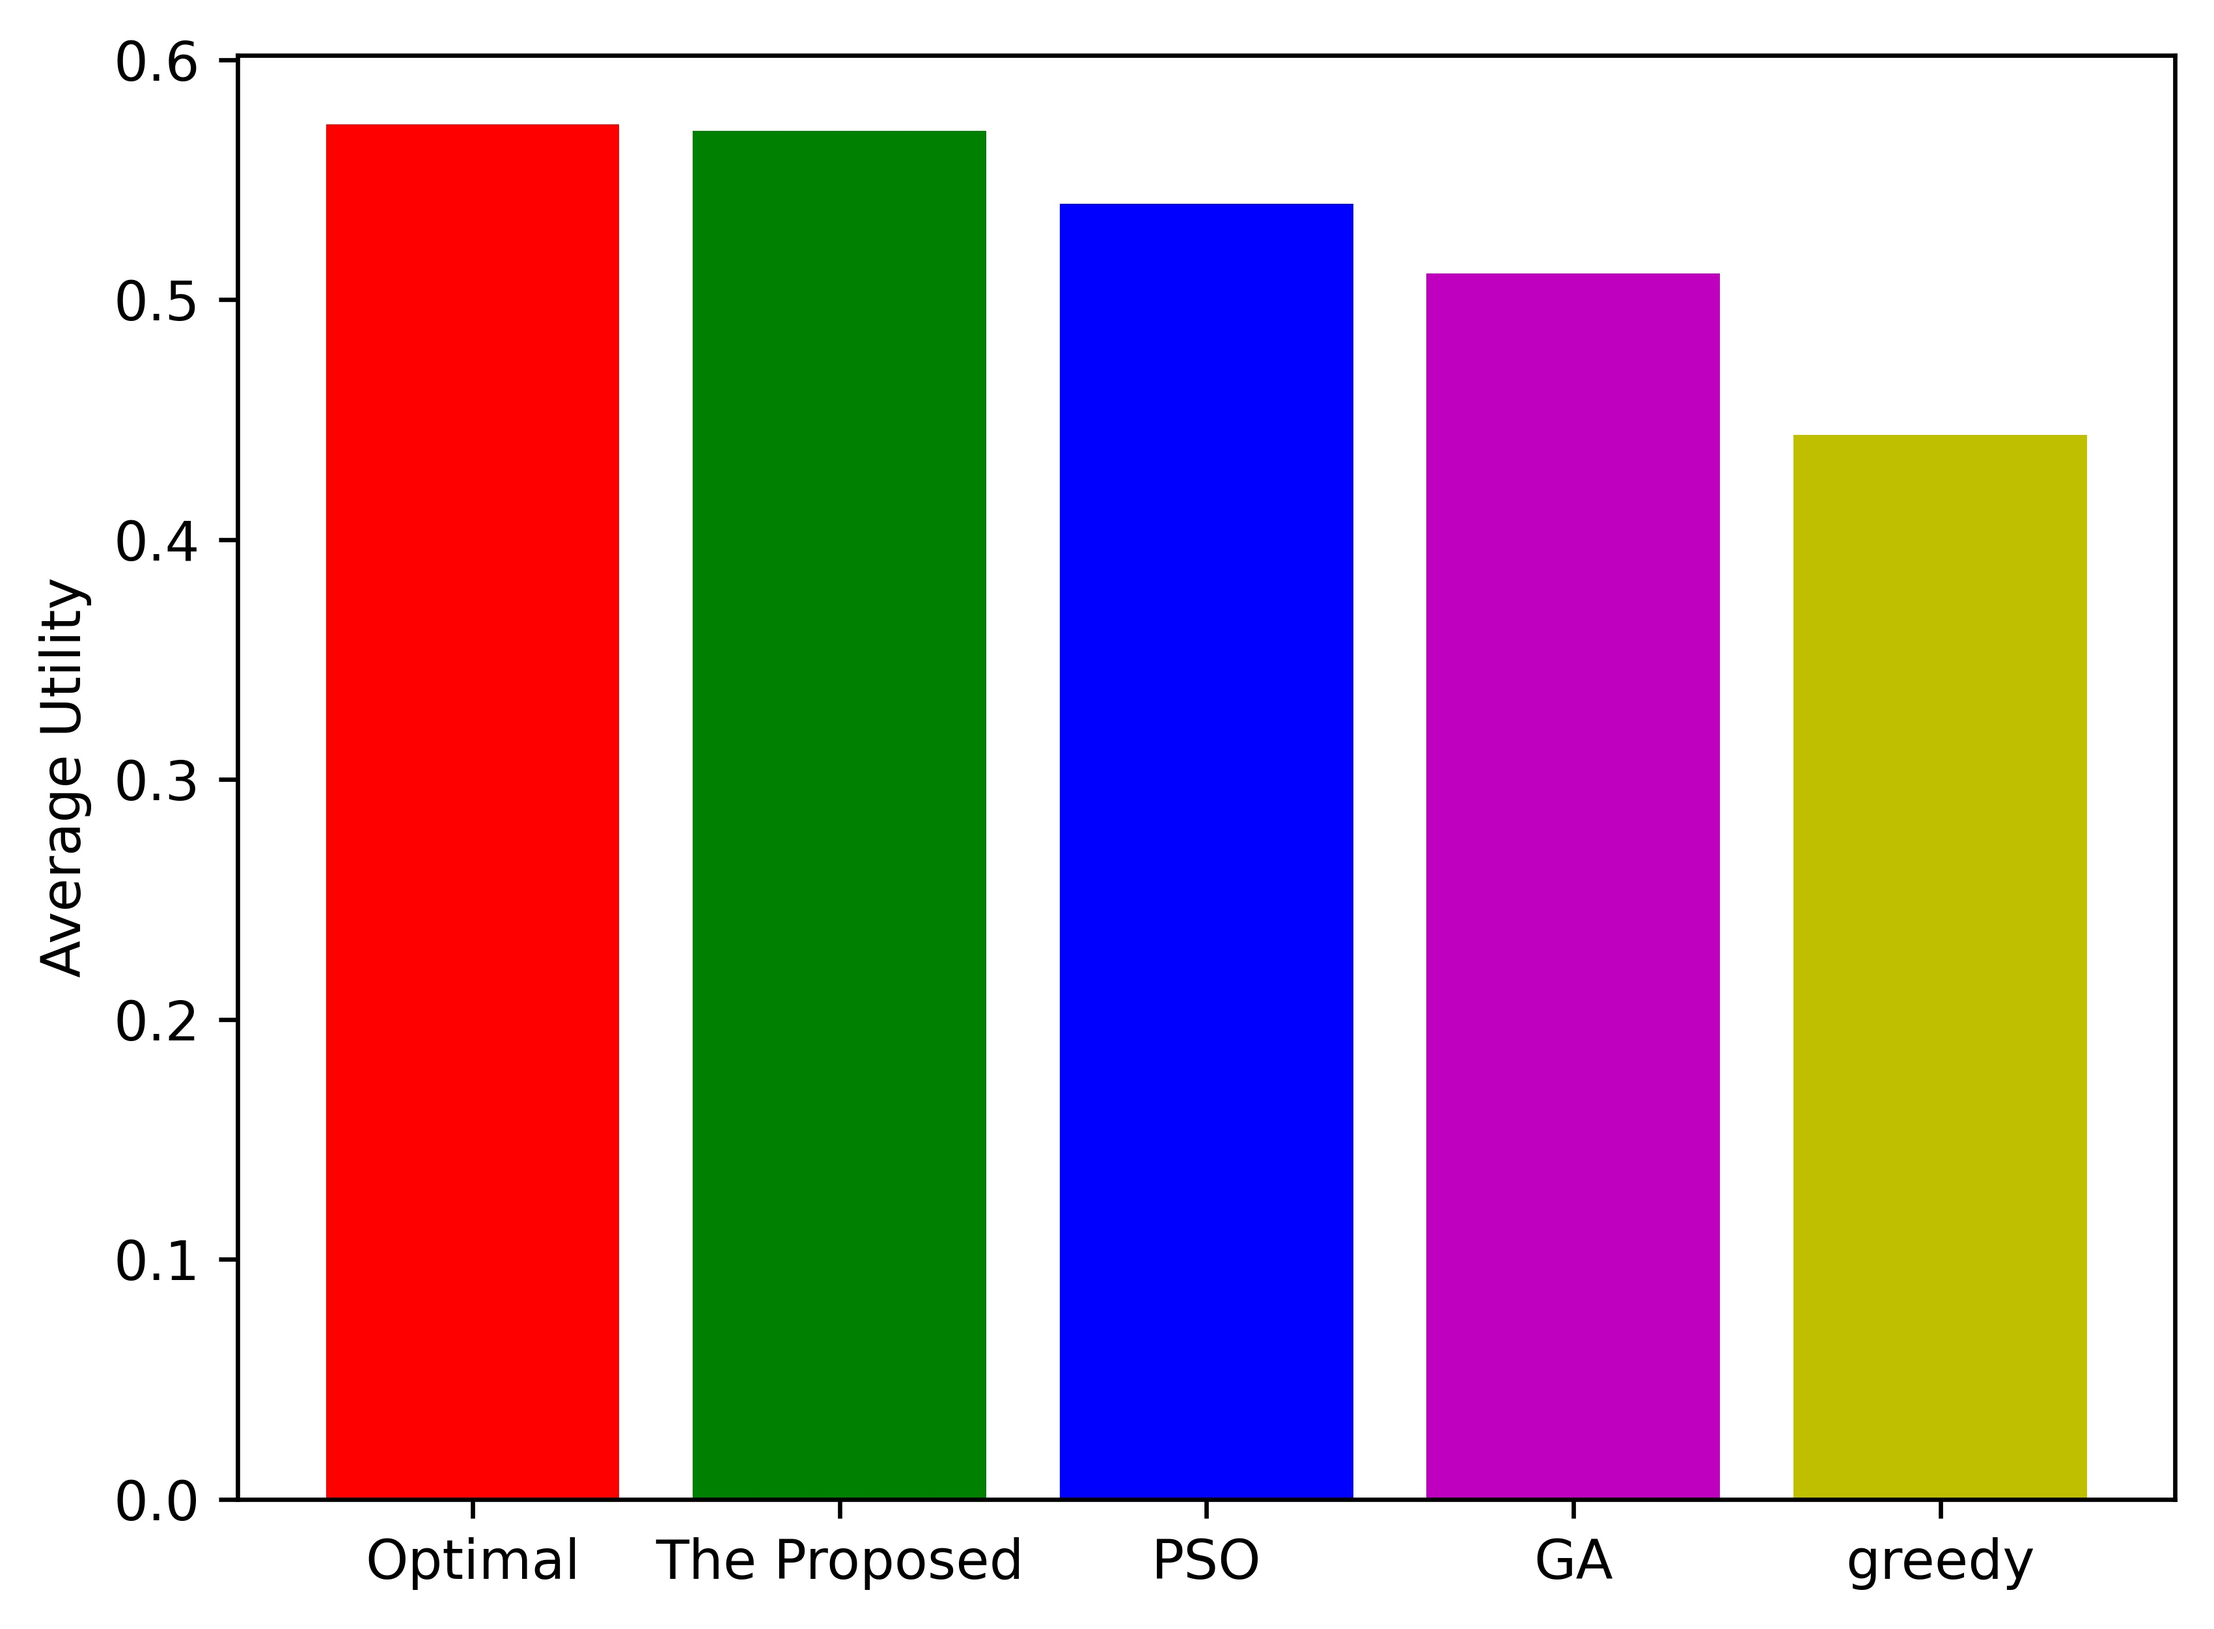
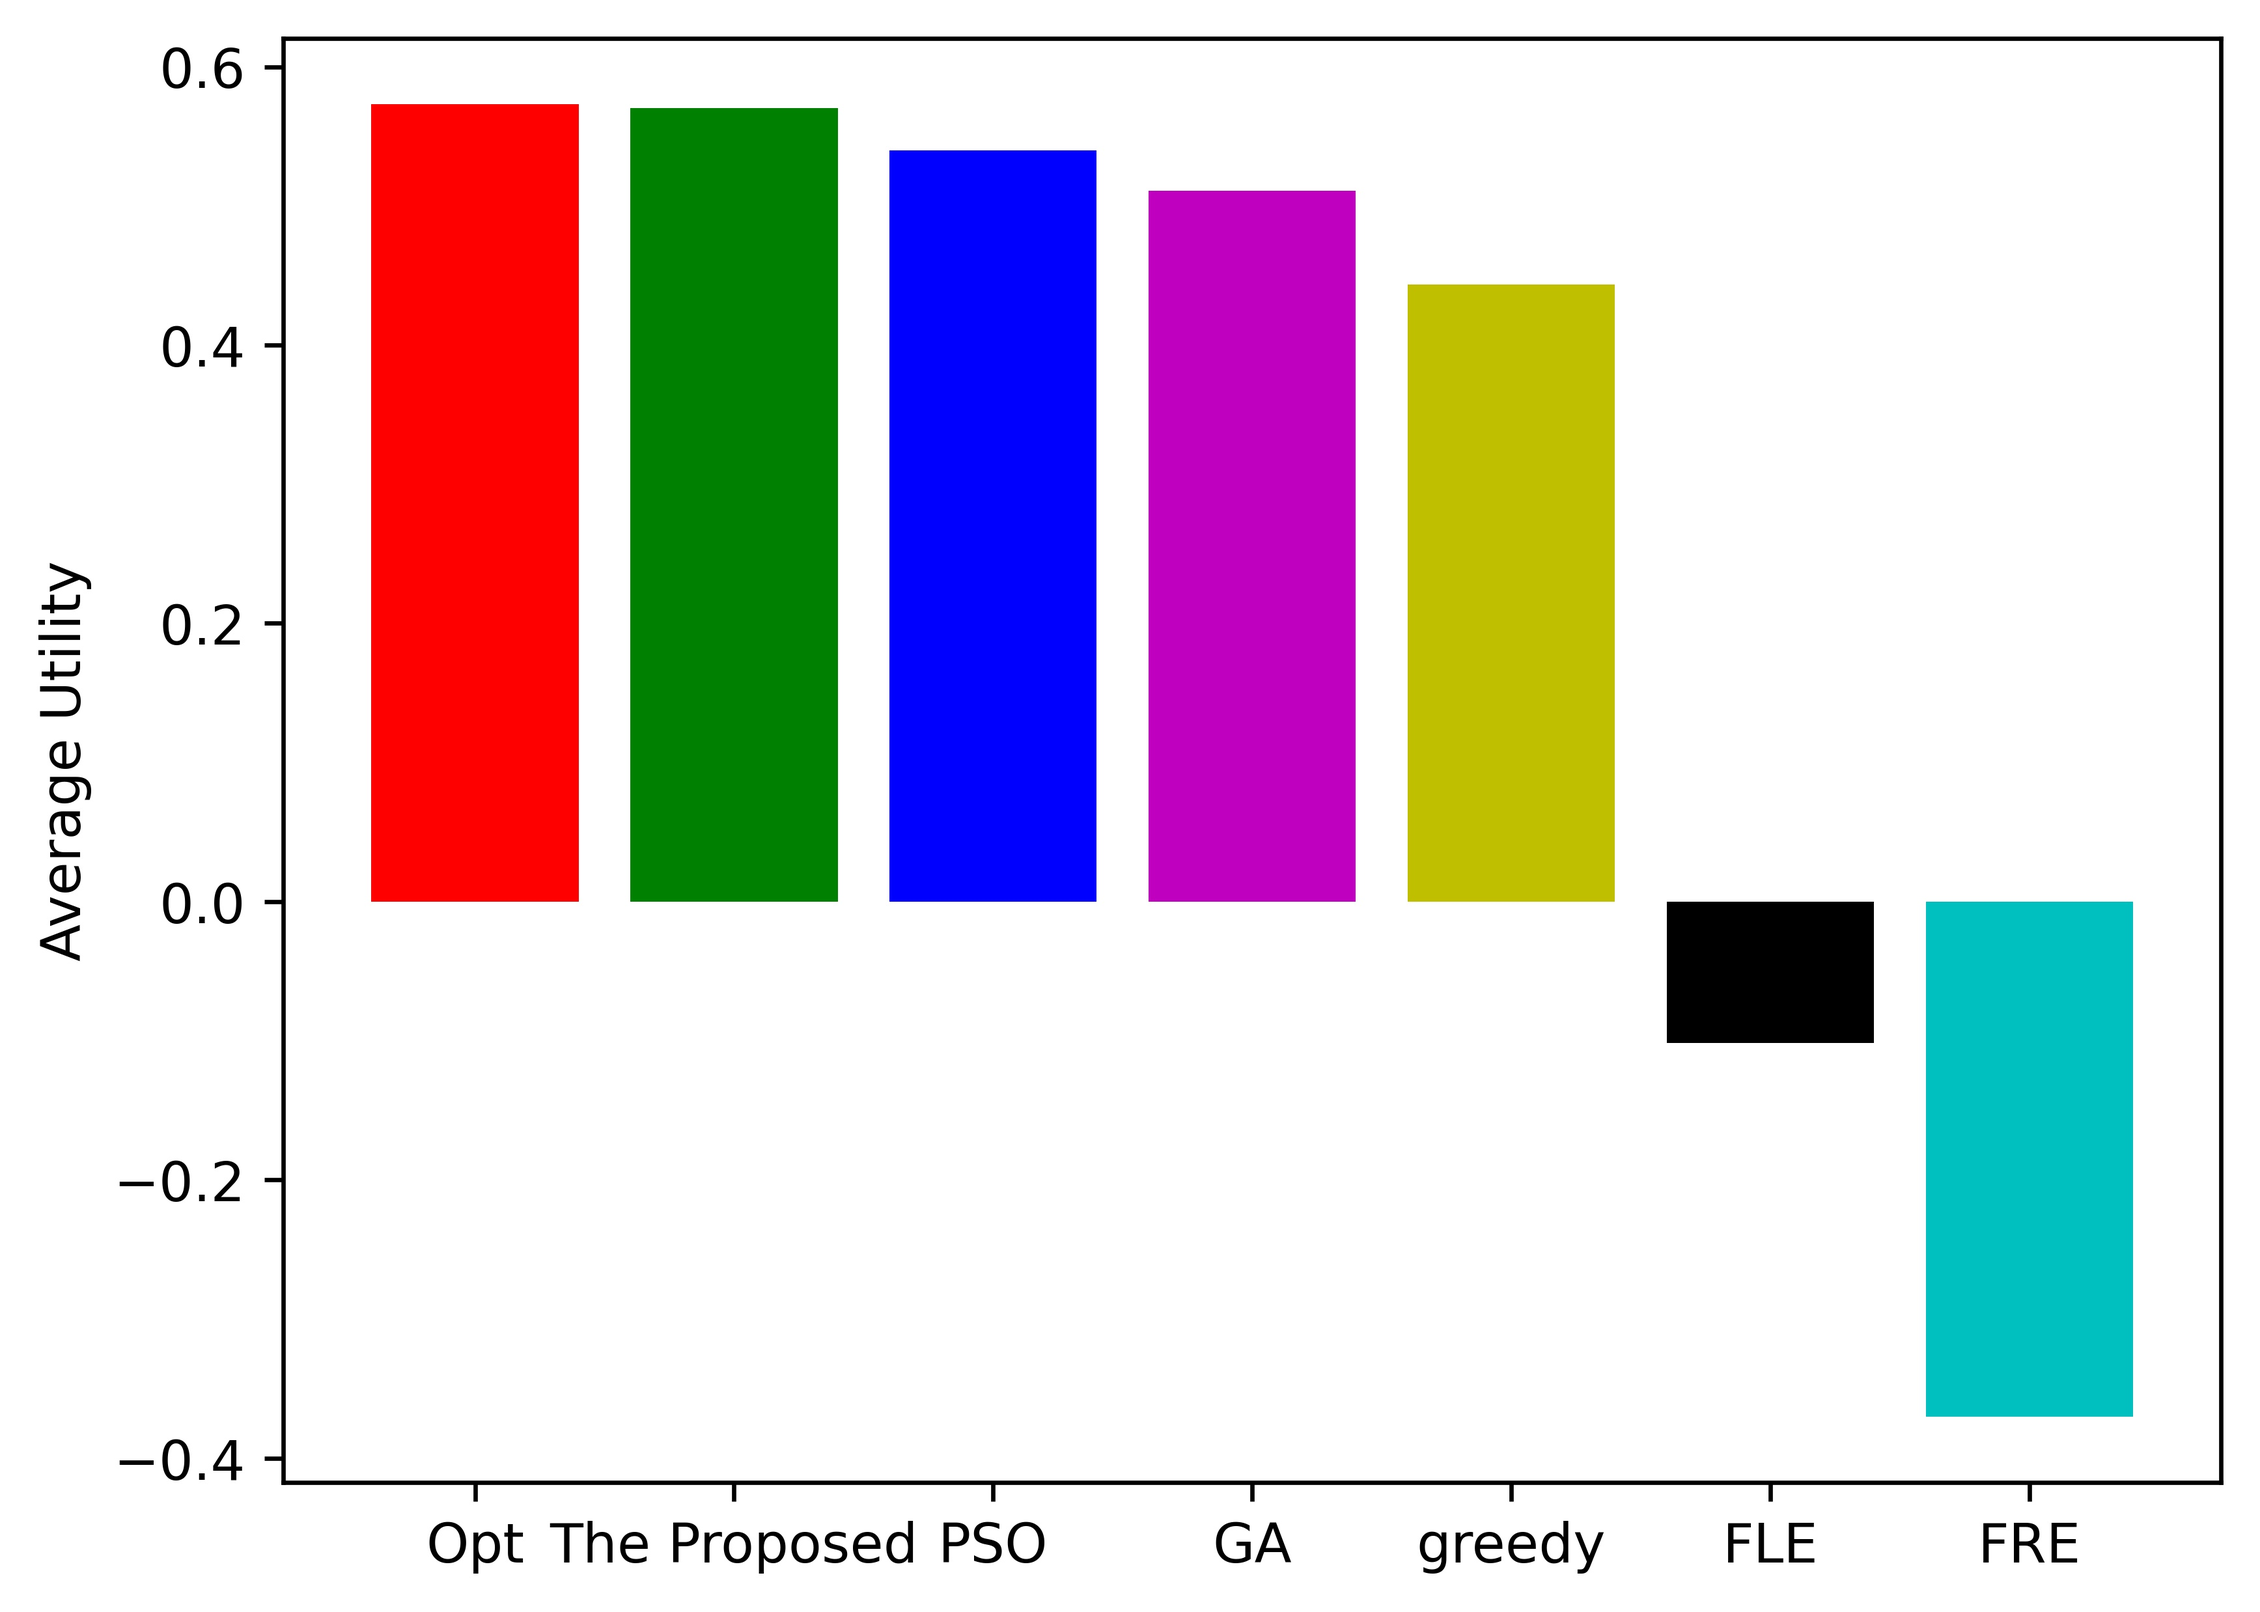
123456

diff --git a/UCD.py b/UCD.py
@@ -642,10 +642,17 @@ def draw_optimal():
 	print(rPSO, PSO, 'PSO')
 	xi=greedy(tasks)
 	RAN=random(tasks,xi)
-	print(RAN, (rOPT-RAN)/rOPT)'''
-	x=['Optimal', 'The Proposed', 'PSO', 'GA', 'greedy']
-	a=[0.5731757667479276, 0.5704970428153521, 0.54, 0.5109011906529753, 0.44350087376304836]
-	plt.bar(x,a, color=['r', 'g', 'b', 'm', 'y'])
+	print(RAN, (rOPT-RAN)/rOPT)
+
+	tasks=gen_task()
+	xi=[0]*users
+	print(random(tasks,xi))
+	xi=[1]*users
+	print(random(tasks,xi))'''
+
+	x=['Opt', 'The Proposed', 'PSO', 'GA', 'greedy', 'FLE', 'FRE']
+	a=[0.5731757667479276, 0.5704970428153521, 0.54, 0.5109011906529753, 0.44350087376304836, -0.10186141054581883, -0.37017025939914894]
+	plt.bar(x,a, color=['r', 'g', 'b', 'm', 'y', 'k', 'c'])
 	plt.ylabel("Average Utility")
 	plt.savefig('OPT.jpg', dpi=600,bbox_inches='tight')
 	plt.show()

diff --git a/RL.py b/RL.py
@@ -637,7 +637,7 @@ def draw_learning():
 	plt.plot(x,DQN,"go-",label='The Proposed')
 	plt.plot(x,QL,"bo-",label='Q-Learning')
 	#plt.plot(x,ARIMA,"ko-",label='ARIMA')
-	plt.xlabel("epochs")
+	plt.xlabel("episodes")
 	plt.ylabel("unit profit")
 	plt.legend()
 	plt.savefig('learning.jpg', dpi=600, bbox_inches='tight')
@@ -736,8 +736,8 @@ def draw_bar():
 
 #ARIMA()
 #QL()
-draw_bar()
-#draw_learning()
+#draw_bar()
+draw_learning()
 #draw_realtime()
 
 #4/8: QL, DQL done, traffic range 2~50, for 0.3, revenue=0.6~15*5, for 1.3, revenue=1~25*5
